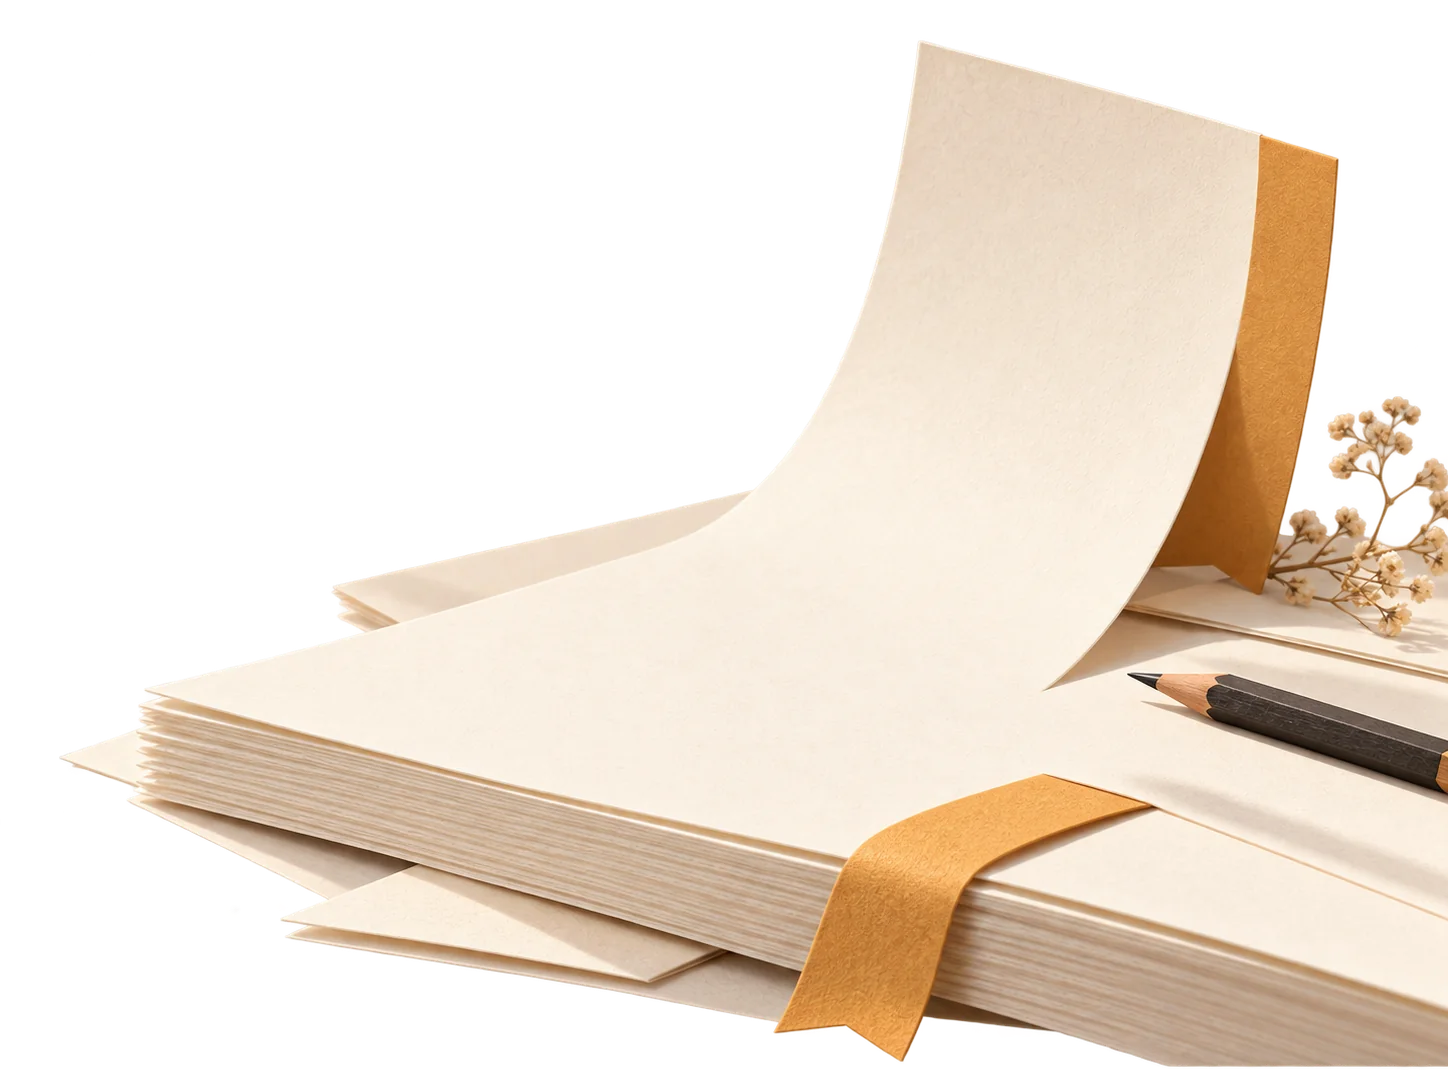
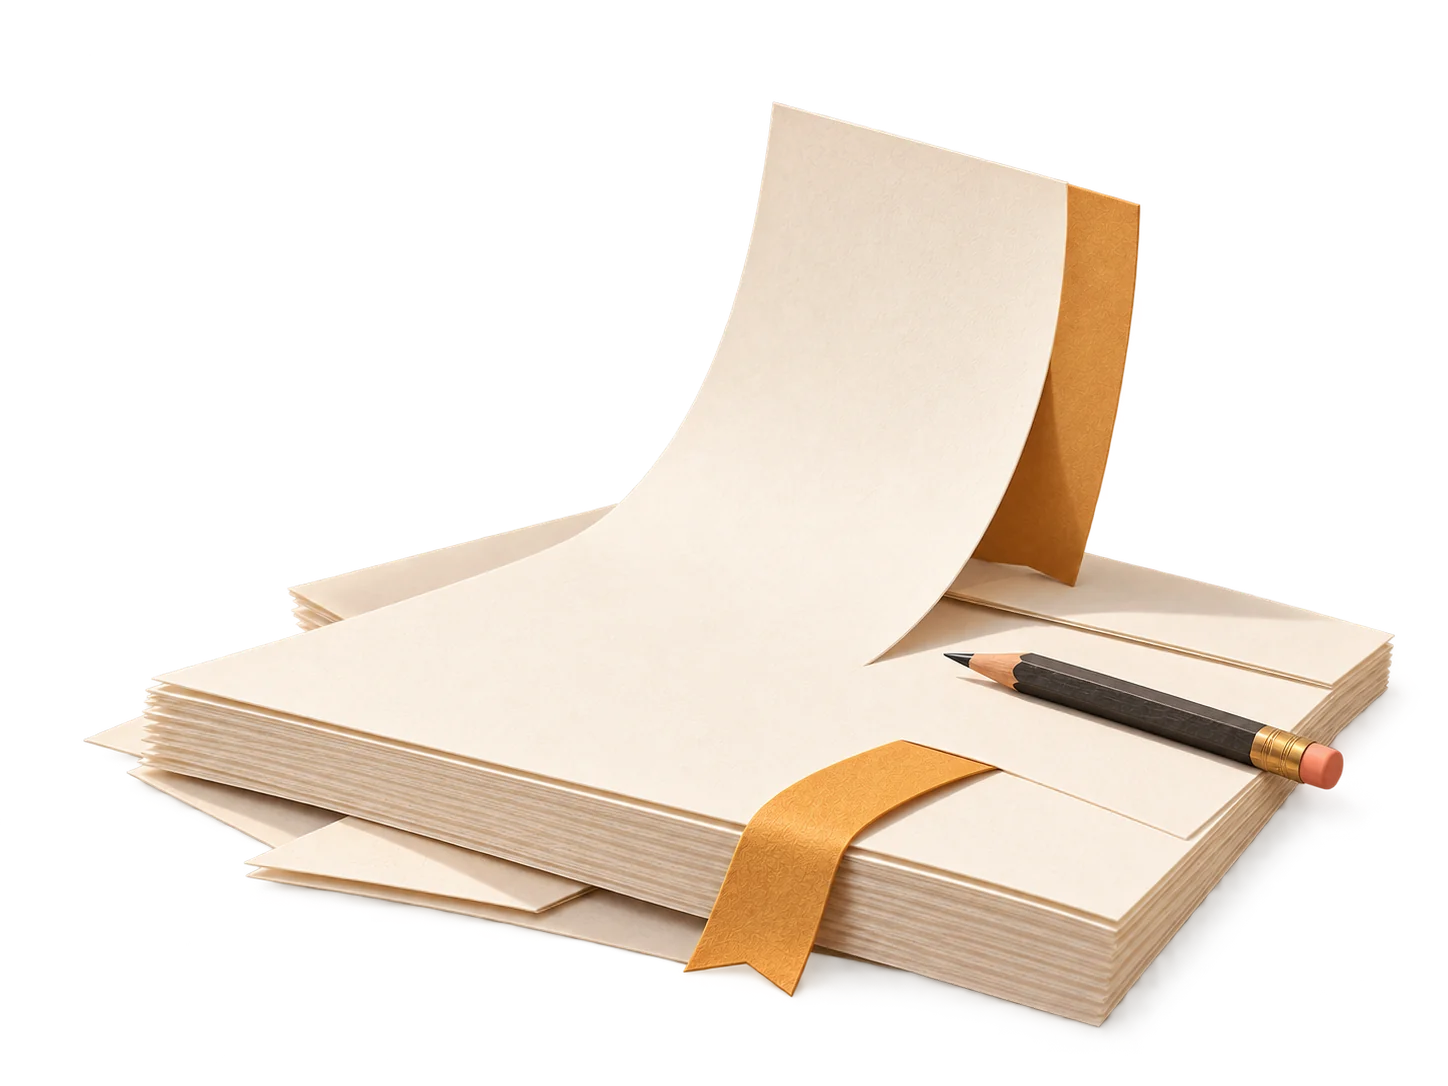
fix(home): finish paper silhouette and sharpen editorial hero

diff --git a/src/assets/styles/paper-depth.css b/src/assets/styles/paper-depth.css
@@ -268,3 +268,10 @@ body:has(.home-page) #highlight-gradient {
     place-items: center;
   }
 }
+
+@media (min-width: 901px) {
+  html[lang='zh-CN'] .site-frame .home-page .home-hero h1 {
+    font-size: clamp(4.3rem, 7.6vw, 7.1rem);
+    line-height: 1.04;
+  }
+}
